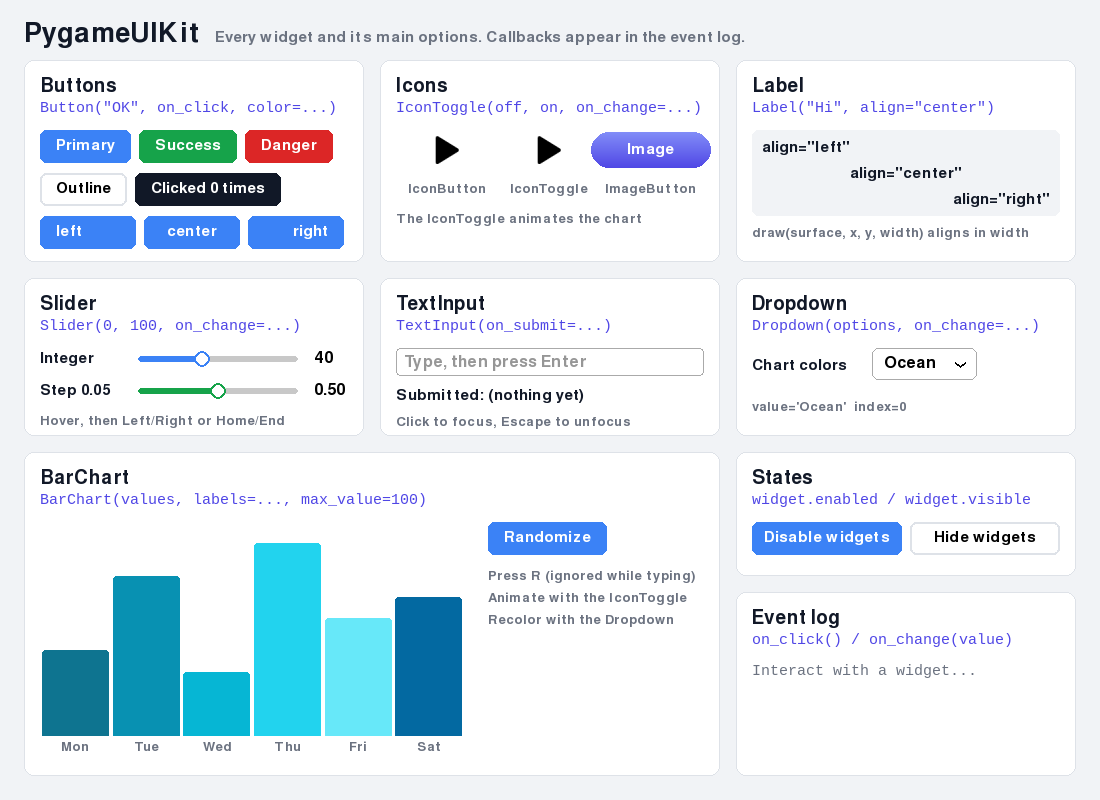
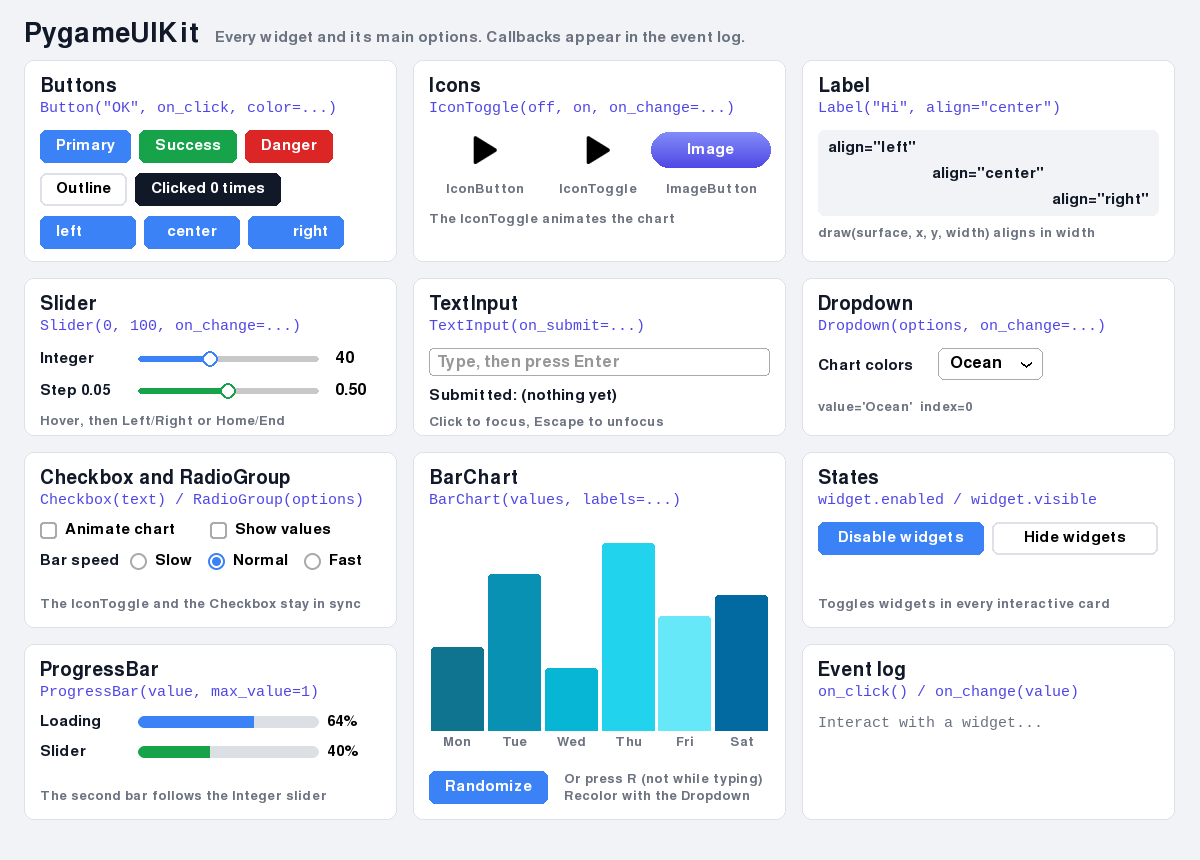
Add Checkbox, RadioGroup and ProgressBar cards to the demo

diff --git a/src/PygameUIKit/demo.py b/src/PygameUIKit/demo.py
@@ -18,17 +18,20 @@ import pygame as pg
 from PygameUIKit import (
     BarChart,
     Button,
+    Checkbox,
     Dropdown,
     Group,
     IconButton,
     IconToggle,
     ImageButton,
     Label,
+    ProgressBar,
+    RadioGroup,
     Slider,
     TextInput,
 )
 
-SIZE = (1100, 800)
+SIZE = (1200, 860)
 ASSETS = Path(__file__).parent / "assets"
 
 BACKGROUND = (241, 243, 246)
@@ -44,7 +47,11 @@ RED = (220, 38, 38)
 MARGIN, GAP, PAD = 24, 16, 16
 HEADER = 60
 COLUMNS = 3
-ROWS = (202, 158, 124, 184)  # card heights, top to bottom
+ROWS = (202, 158, 176, 176)  # card heights, top to bottom
+
+DAYS = ["Mon", "Tue", "Wed", "Thu", "Fri", "Sat"]
+SPEEDS = {"Slow": 50, "Normal": 200, "Fast": 800}  # BarChart speed, in values per second
+LOADING_SECONDS = 3
 
 PALETTES = {
     "Ocean": ["#0e7490", "#0891b2", "#06b6d4", "#22d3ee", "#67e8f9", "#0369a1"],
@@ -209,7 +216,7 @@ class Demo:
         # BarChart
         self.chart = BarChart(
             [40, 75, 30, 90, 55, 65],
-            labels=["Mon", "Tue", "Wed", "Thu", "Fri", "Sat"],
+            labels=DAYS,
             max_value=100,
             colors=PALETTES[self.palette.value],
             font=self.small_font,
@@ -219,13 +226,39 @@ class Demo:
         self.randomize = Button("Randomize", self.on_randomize, font=font, ui_group=ui)
         self.chart_hints = [
             Label(text, MUTED, font=self.small_font)
-            for text in (
-                "Press R (ignored while typing)",
-                "Animate with the IconToggle",
-                "Recolor with the Dropdown",
-            )
+            for text in ("Or press R (not while typing)", "Recolor with the Dropdown")
         ]
         self.animation_timer = 0.0
+
+        # Checkbox and RadioGroup
+        self.animate_box = Checkbox(
+            "Animate chart", on_change=self.on_animate_box, font=font, ui_group=ui
+        )
+        self.values_box = Checkbox(
+            "Show values", on_change=self.on_values_box, font=font, ui_group=ui
+        )
+        self.speed = RadioGroup(
+            list(SPEEDS),
+            index=1,
+            on_change=self.on_speed,
+            direction="horizontal",
+            spacing=16,
+            font=font,
+            ui_group=ui,
+        )
+        self.speed_label = Label("Bar speed", INK, font=font)
+        self.choices_hint = Label(
+            "The IconToggle and the Checkbox stay in sync", MUTED, font=self.small_font
+        )
+
+        # ProgressBar: display only, so it needs no group.
+        self.loading = ProgressBar(show_text=True, font=font)
+        self.loading_time = 1.9  # seconds into the loop, so the first frame shows progress
+        self.slider_progress = ProgressBar(max_value=100, color=GREEN, show_text=True, font=font)
+        self.progress_labels = [Label(text, INK, font=font) for text in ("Loading", "Slider")]
+        self.progress_hint = Label(
+            "The second bar follows the Integer slider", MUTED, font=self.small_font
+        )
 
         # States: every widget has ``enabled`` and ``visible``. Two buttons flip them for
         # these widgets, at least one from each interactive card.
@@ -237,6 +270,9 @@ class Demo:
             self.int_slider,
             self.text_input,
             self.palette,
+            self.animate_box,
+            self.speed,
+            self.loading,
         ]
         state_width = (cell(2, 2).w - 2 * PAD - 8) // 2
         self.disable = Button(
@@ -251,6 +287,9 @@ class Demo:
             font=font,
             ui_group=ui,
         )
+        self.states_hint = Label(
+            "Toggles widgets in every interactive card", MUTED, font=self.small_font
+        )
 
         self.log_empty = Label("Interact with a widget...", MUTED, font=self.code_font)
 
@@ -263,11 +302,13 @@ class Demo:
             Card("Slider", "Slider(0, 100, on_change=...)", cell(0, 1), self.draw_sliders),
             Card("TextInput", "TextInput(on_submit=...)", cell(1, 1), self.draw_text_input),
             Card(
-                "BarChart",
-                "BarChart(values, labels=..., max_value=100)",
-                cell(0, 2, 2, 2),
-                self.draw_chart,
+                "Checkbox and RadioGroup",
+                "Checkbox(text) / RadioGroup(options)",
+                cell(0, 2),
+                self.draw_choices,
             ),
+            Card("ProgressBar", "ProgressBar(value, max_value=1)", cell(0, 3), self.draw_progress),
+            Card("BarChart", "BarChart(values, labels=...)", cell(1, 2, 1, 2), self.draw_chart),
             Card("States", "widget.enabled / widget.visible", cell(2, 2), self.draw_states),
             Card("Event log", "on_click() / on_change(value)", cell(2, 3), self.draw_log),
             Card("Dropdown", "Dropdown(options, on_change=...)", cell(2, 1), self.draw_dropdown),
@@ -294,7 +335,20 @@ class Demo:
         self.log("IconButton.on_click()")
 
     def on_animate(self, value: bool) -> None:
+        self.animate_box.value = value  # setting a value never calls on_change
         self.log(f"IconToggle.on_change({value})")
+
+    def on_animate_box(self, value: bool) -> None:
+        self.animate.value = value
+        self.log(f"Checkbox.on_change({value})")
+
+    def on_values_box(self, value: bool) -> None:
+        self.chart.labels = None if value else DAYS  # without labels, bars show their values
+        self.log(f"Checkbox.on_change({value})")
+
+    def on_speed(self, value: str) -> None:
+        self.chart.speed = SPEEDS[value]
+        self.log(f"RadioGroup.on_change({value!r})")
 
     def on_submit(self, text: str) -> None:
         self.submitted.text = f"Submitted: {text}"
@@ -349,6 +403,10 @@ class Demo:
 
     def update(self, dt: float) -> None:
         self.ui.update(dt)  # animates the chart and repeats held keys in the text input
+        # The loading bar fills in LOADING_SECONDS, stays full (value clamps) and restarts.
+        self.loading_time = (self.loading_time + dt) % (LOADING_SECONDS + 1)
+        self.loading.value = self.loading_time / LOADING_SECONDS
+        self.slider_progress.value = self.int_slider.value
         if self.animate.value:
             self.animation_timer += dt
             if self.animation_timer >= 0.2:
@@ -400,7 +458,7 @@ class Demo:
         ):
             y = area.y + 8 + i * 32
             label.draw(surface, area.x, y - label.rect.h // 2 + 3)
-            bar.draw(surface, area.x + 98, y, width=160)
+            bar.draw(surface, area.x + 98, y, width=area.w - 160)
         self.slider_hint.draw(surface, area.x, area.y + 66)
 
     def draw_text_input(self, surface: pg.Surface, area: pg.Rect) -> None:
@@ -415,16 +473,34 @@ class Demo:
         self.palette.draw(surface, area.x + 120, area.y)
 
     def draw_chart(self, surface: pg.Surface, area: pg.Rect) -> None:
-        chart_width = area.w - 240
-        self.chart.draw(surface, area.x, area.y, chart_width, area.h - 24)
-        x = area.x + chart_width + 24
-        self.randomize.draw(surface, x, area.y)
+        self.randomize.draw(surface, area.x, area.bottom - self.randomize.rect.h)
+        x = self.randomize.rect.right + 16
         for i, hint in enumerate(self.chart_hints):
-            hint.draw(surface, x, self.randomize.rect.bottom + 14 + i * 22)
+            hint.draw(surface, x, self.randomize.rect.centery - 15 + i * 17)
+        self.chart.draw(surface, area.x, area.y, area.w, self.randomize.rect.y - area.y - 40)
+
+    def draw_choices(self, surface: pg.Surface, area: pg.Rect) -> None:
+        self.animate_box.draw(surface, area.x, area.y)
+        self.values_box.draw(surface, area.x + area.w // 2, area.y)
+        y = self.animate_box.rect.bottom + 14
+        self.speed_label.draw(surface, area.x, y)
+        self.speed.draw(
+            surface, area.x + 90, y + (self.speed_label.rect.h - self.speed.rect.h) // 2
+        )
+        self.choices_hint.draw(surface, area.x, area.bottom - self.choices_hint.rect.h)
+
+    def draw_progress(self, surface: pg.Surface, area: pg.Rect) -> None:
+        bars = (self.loading, self.slider_progress)
+        for i, (label, bar) in enumerate(zip(self.progress_labels, bars, strict=True)):
+            y = area.y + i * 30
+            label.draw(surface, area.x, y)
+            bar.draw(surface, area.x + 98, label.rect.centery - 6, width=area.w - 160)
+        self.progress_hint.draw(surface, area.x, area.bottom - self.progress_hint.rect.h)
 
     def draw_states(self, surface: pg.Surface, area: pg.Rect) -> None:
         self.disable.draw(surface, area.x, area.y)
         self.hide.draw(surface, self.disable.rect.right + 8, area.y)
+        self.states_hint.draw(surface, area.x, area.bottom - self.states_hint.rect.h)
 
     def draw_log(self, surface: pg.Surface, area: pg.Rect) -> None:
         if not self.events:

diff --git a/tests/test_demo.py b/tests/test_demo.py
@@ -3,9 +3,9 @@ import pygame as pg
 from PygameUIKit import demo
 
 
-def click(app, widget):
+def click(app, widget, pos=None):
     for kind in (pg.MOUSEBUTTONDOWN, pg.MOUSEBUTTONUP):
-        app.handle_event(pg.event.Event(kind, pos=widget.rect.center, button=1))
+        app.handle_event(pg.event.Event(kind, pos=pos or widget.rect.center, button=1))
 
 
 def test_demo_runs_a_few_frames():
@@ -59,3 +59,25 @@ def test_demo_disables_and_hides_the_showcase_widgets():
         "widget.enabled = True",
         "widget.visible = True",
     ]
+
+
+def test_demo_choices_drive_the_chart_and_progress_follows():
+    app = demo.Demo()
+    app.draw()
+    click(app, app.animate_box)
+    assert app.animate.value and app.animate_box.value
+    click(app, app.animate)
+    assert not app.animate_box.value
+    click(app, app.values_box)
+    assert app.chart.labels is None
+    click(app, app.speed, app.speed._rows[2].center)
+    assert app.chart.speed == demo.SPEEDS["Fast"]
+    assert list(app.events) == [
+        "Checkbox.on_change(True)",
+        "IconToggle.on_change(False)",
+        "Checkbox.on_change(True)",
+        "RadioGroup.on_change('Fast')",
+    ]
+    app.int_slider.value = 70
+    app.update(0.5)
+    assert app.slider_progress.value == 70 and 0 < app.loading.fraction <= 1
